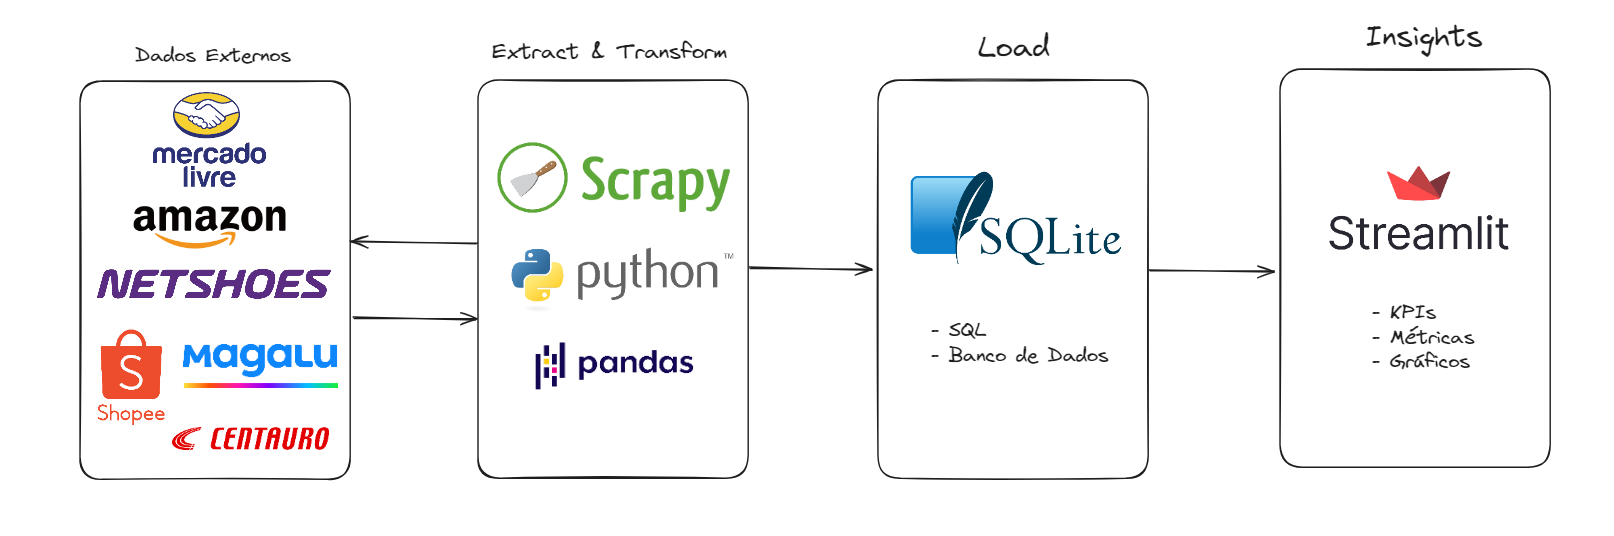
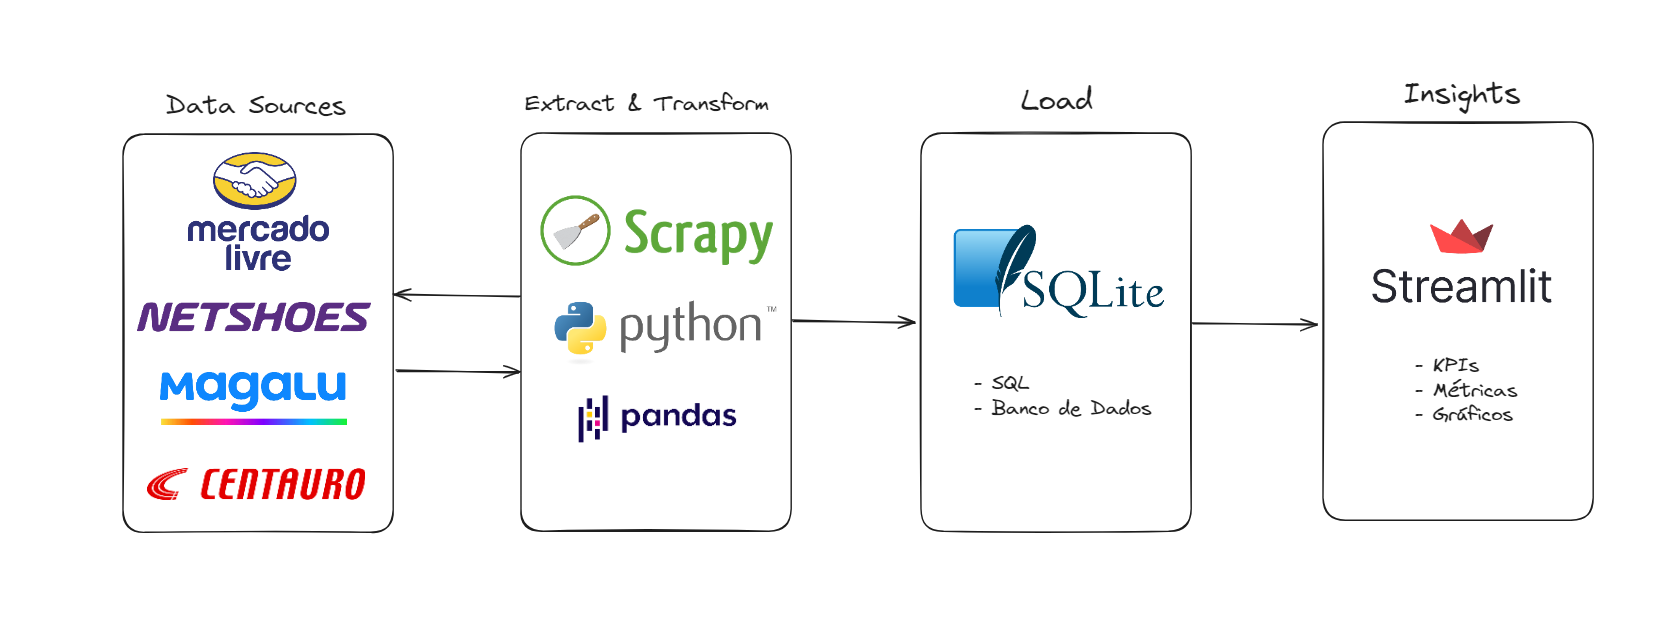
Altering Data Sources

diff --git a/src/dashboard/app.py b/src/dashboard/app.py
@@ -28,8 +28,8 @@ class Dashboard:
 
         #Options Menu
         with st.sidebar:
-            selected = option_menu('WebScraping', ["Home", 'Mercado Livre', 'Amazon', 'Magalu', 'Shopee', 'Centauro', 'Netshoes', 'Sobre'], 
-                icons=['house', 'search', 'search', 'search', 'search', 'search', 'search', 'info-circle'], menu_icon='intersect', default_index=0,
+            selected = option_menu('WebScraping', ["Home", 'Mercado Livre', 'Magalu', 'Centauro', 'Netshoes', 'Sobre'], 
+                icons=['house', 'search', 'search', 'search', 'search', 'info-circle'], menu_icon='intersect', default_index=0,
                 styles={
                         "container": {"background-color": "#fafafa"},
                         "nav-link": {"--hover-color": "#eee"},
@@ -122,21 +122,9 @@ class Dashboard:
         
         with st.container():
             col1,col2,col3=st.columns(3)
-            col1.write(':blue[Amazon]')
-            col2.write('Setor de Tênis corrida masculino')
-            col3.write('https://amzn.to/3V9Owvg')
-        
-        with st.container():
-            col1,col2,col3=st.columns(3)
             col1.write(':blue[Magalu]')
             col2.write('Setor de Tênis corrida masculino')
             col3.write('https://www.magazineluiza.com.br/busca/tenis%2Bmasculino/?from=clickSuggestion&filters=category---ES%2Bsubcategory---ELNN')
-
-        with st.container():
-            col1,col2,col3=st.columns(3)
-            col1.write(':blue[Shopee]')
-            col2.write('Setor de Tênis corrida masculino')
-            col3.write('https://shopee.com.br/search?facet=11062129&keyword=tenis%20masculino%20esportivo&noCorrection=true&page=0')
 
         with st.container():
             col1,col2,col3=st.columns(3)
@@ -161,6 +149,7 @@ class Dashboard:
             col1.write('**Educação:**  Sistemas de Informações - UFMS')
             col1.write('**Experiencia:**  Analista de Dados e futuro Analytics Engineer')
             col1.write('**Contato:** [Linkedin](https://www.linkedin.com/in/thiagosilvafarias/)')
+            col1.write('**Github:** [Projeto](https://github.com/tsffarias/scrapy_monitoramento_preco_ecommerce/tree/main)')
             col1.write('**Obrigado pela visita!**')
 
             col2.markdown(
@@ -375,19 +364,6 @@ class Dashboard:
         col1.plotly_chart(fig2)
         col2.write(satisfaction_by_brand_table)
 
-    def amazon(self, df):
-        # Título da aplicação
-        st.title('Pesquisa de Mercado - Tênis Esportivos na Amazon')
-
-        # Imagem Logo e-commerce
-        image_html = """
-        <div style="text-align: center;">
-            <img src="https://cdn4.iconfinder.com/data/icons/flat-brand-logo-2/512/amazon-512.png" width="350" alt="Amazon">
-        </div>
-        """ 
-        # Renderiza o HTML na barra lateral
-        st.sidebar.markdown(image_html, unsafe_allow_html=True)
-
     def magalu(self, df):
         # Título da aplicação
         st.title('Pesquisa de Mercado - Tênis Esportivos na Magalu')  
@@ -401,20 +377,7 @@ class Dashboard:
         # Renderiza o HTML na barra lateral
         st.sidebar.markdown(image_html, unsafe_allow_html=True) 
 
-        self.dashboard_elements(df)
-
-    def shopee(self, df):
-        # Título da aplicação
-        st.title('Pesquisa de Mercado - Tênis Esportivos na Shopee') 
-
-        # Imagem Logo e-commerce
-        image_html = """
-        <div style="text-align: center;">
-            <img src="https://i.pinimg.com/originals/05/7b/27/057b274c134bcf92ac151758478949b3.png" width="350" alt="Shopee">
-        </div>
-        """ 
-        # Renderiza o HTML na barra lateral
-        st.sidebar.markdown(image_html, unsafe_allow_html=True)   
+        self.dashboard_elements(df)  
 
     def centauro(self, df):
         # Título da aplicação

diff --git a/README.md b/README.md
@@ -2,27 +2,25 @@
 
 ## Descrição
 
-Imagine que uma marca de tênis deseja avaliar sua relevância no ecossistema do Mercado Livre, Amazon, Magalu, Shopee e Centauro. Para isso, é necessário obter **KPIs** relacionados ao segmento de tênis nessas plataformas. O objetivo é coletar informações detalhadas e implementar um dashboard que facilite a visualização e análise desses dados.
+Imagine que uma marca de tênis deseja avaliar sua relevância no ecossistema do Mercado Livre, Magalu, Centauro e Netshoes. Para isso, é necessário obter **KPIs** relacionados ao segmento de tênis nessas plataformas. O objetivo é coletar informações detalhadas e implementar um dashboard que facilite a visualização e análise desses dados.
 
 ## Proposta do Projeto
 
-Fomos contratados por uma grande empresa para fazer uma pesquisa de mercado na categoria de tênis esportivos dentro de diversos e-commerces: Mercado Livre, Amazon, Magalu, Shopee, Centauro e Netshoes. O objetivo dessa empresa é avaliar:
+Fomos contratados por uma grande empresa para fazer uma pesquisa de mercado na categoria de tênis esportivos dentro de diversos e-commerces: Mercado Livre, Magalu, Centauro e Netshoes. O objetivo dessa empresa é avaliar:
 - 👟 Quais marcas são mais encontradas até a 10ª página
 - 💰 Qual o preço médio por marca
 - ⭐ Qual a satisfação por marca
 
 # Fontes de Dados
 - Mercado Livre
-- Amazon
 - Magalu
-- Shopee
 - Centauro
 - Netshoes
 
 ## Etapas do Projeto
 
 ### Etapa 1: Extração dos Dados
-Utilização de **Web Scraping** com a biblioteca **Scrapy** para obter os dados necessários do Mercado Livre, Amazon, Magalu, Shopee, Centauro.
+Utilização de **Web Scraping** com a biblioteca **Scrapy** para obter os dados necessários do Mercado Livre, Magalu, Centauro e Netshoes.
 
 ### Etapa 2: Transformação dos Dados
 Processamento e limpeza dos dados utilizando a biblioteca **Pandas** para garantir que estejam prontos para análise.
@@ -55,9 +53,7 @@ Desenvolvimento de um **dashboard interativo** usando **Streamlit** para consumi
 data/
 │── centauro.jsonl
 │── mercado_livre.jsonl
-│── amazon.jsonl
 │── magalu.jsonl
-│── shopee.jsonl
 │── netshoes.jsonl
 │── quotes.db
 pics/
@@ -67,9 +63,7 @@ src/
 │   ├── spiders/
 │   │   └── centauro.py
 │   │   └── mercadolivre.py
-│   │   └── amazon.py
 │   │   └── magalu.py
-│   │   └── shopee.py
 │   │   └── netshoes.py
 │   ├── pipelines.py
 │   ├── items.py
@@ -77,9 +71,7 @@ src/
 ├── transformacao/
 │   ├── centauro.py
 │   ├── mercadolivre.py
-│   ├── amazon.py
 │   ├── magalu.py
-│   ├── shopee.py
 │   ├── netshoes.py
 ├── dashboard/
 │   ├── app.py
@@ -109,9 +101,7 @@ Em seguida, para executar cada etapa, siga as instruções abaixo:
 cd src/coleta/
 scrapy crawl mercadolivre -o ../../data/mercado_livre.jsonl
 scrapy crawl centauro -o ../../data/centauro.jsonl
-scrapy crawl amazon -o ../../data/amazon.jsonl
 scrapy crawl magalu -o ../../data/magalu.jsonl
-scrapy crawl shopee -o ../../data/shopee.jsonl
 scrapy crawl netshoes -o ../../data/netshoes.jsonl
 ```
 
@@ -120,9 +110,7 @@ scrapy crawl netshoes -o ../../data/netshoes.jsonl
 ```sh
 python src/transformacao/mercado_livre.py
 python src/transformacao/centauro.py
-python src/transformacao/amazon.py
 python src/transformacao/magalu.py
-python src/transformacao/shopee.py
 python src/transformacao/netshoes.py
 ```
 
